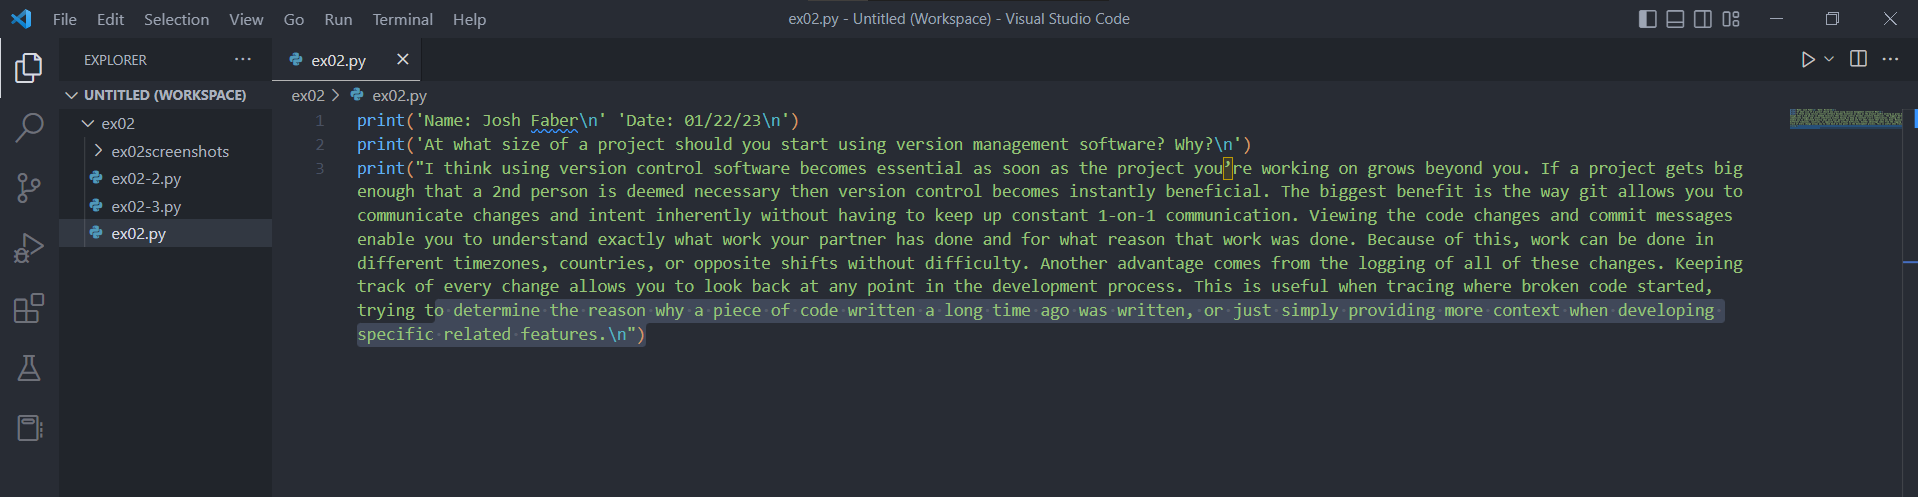
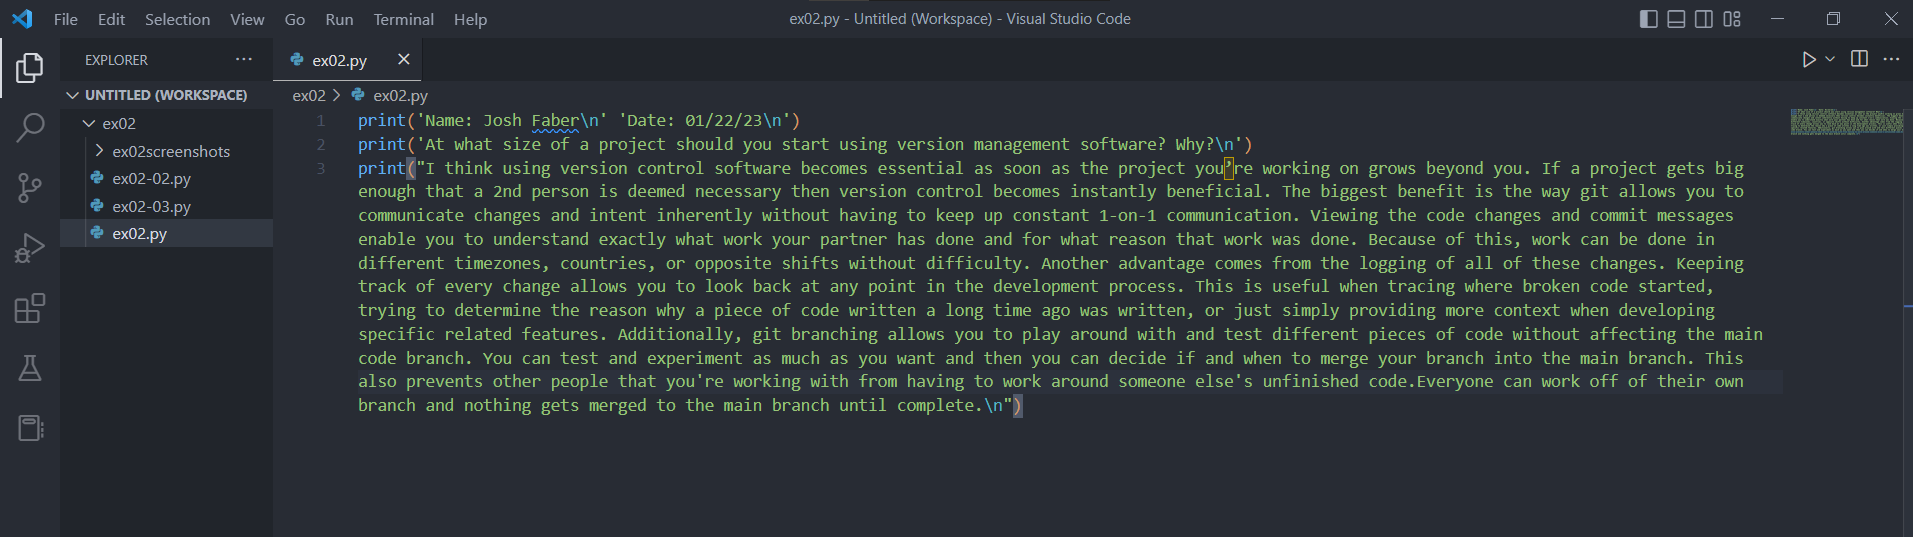
Add files via upload

diff --git a/ex02/ex02.py b/ex02/ex02.py
@@ -1,3 +1,3 @@
 print('Name: Josh Faber\n' 'Date: 01/22/23\n')
 print('At what size of a project should you start using version management software? Why?\n')
-print("I think using version control software becomes essential as soon as the project you’re working on grows beyond you. If a project gets big enough that a 2nd person is deemed necessary then version control becomes instantly beneficial. The biggest benefit is the way git allows you to communicate changes and intent inherently without having to keep up constant 1-on-1 communication. Viewing the code changes and commit messages enable you to understand exactly what work your partner has done and for what reason that work was done. Because of this, work can be done in different timezones, countries, or opposite shifts without difficulty. Another advantage comes from the logging of all of these changes. Keeping track of every change allows you to look back at any point in the development process. This is useful when tracing where broken code started, trying to determine the reason why a piece of code written a long time ago was written, or just simply providing more context when developing specific related features.\n")
+print("I think using version control software becomes essential as soon as the project you’re working on grows beyond you. If a project gets big enough that a 2nd person is deemed necessary then version control becomes instantly beneficial. The biggest benefit is the way git allows you to communicate changes and intent inherently without having to keep up constant 1-on-1 communication. Viewing the code changes and commit messages enable you to understand exactly what work your partner has done and for what reason that work was done. Because of this, work can be done in different timezones, countries, or opposite shifts without difficulty. Another advantage comes from the logging of all of these changes. Keeping track of every change allows you to look back at any point in the development process. This is useful when tracing where broken code started, trying to determine the reason why a piece of code written a long time ago was written, or just simply providing more context when developing specific related features. Additionally, git branching allows you to play around with and test different pieces of code without affecting the main code branch. You can test and experiment as much as you want and then you can decide if and when to merge your branch into the main branch. This also prevents other people that you're working with from having to work around someone else's unfinished code.Everyone can work off of their own branch and nothing gets merged to the main branch until complete.\n")
